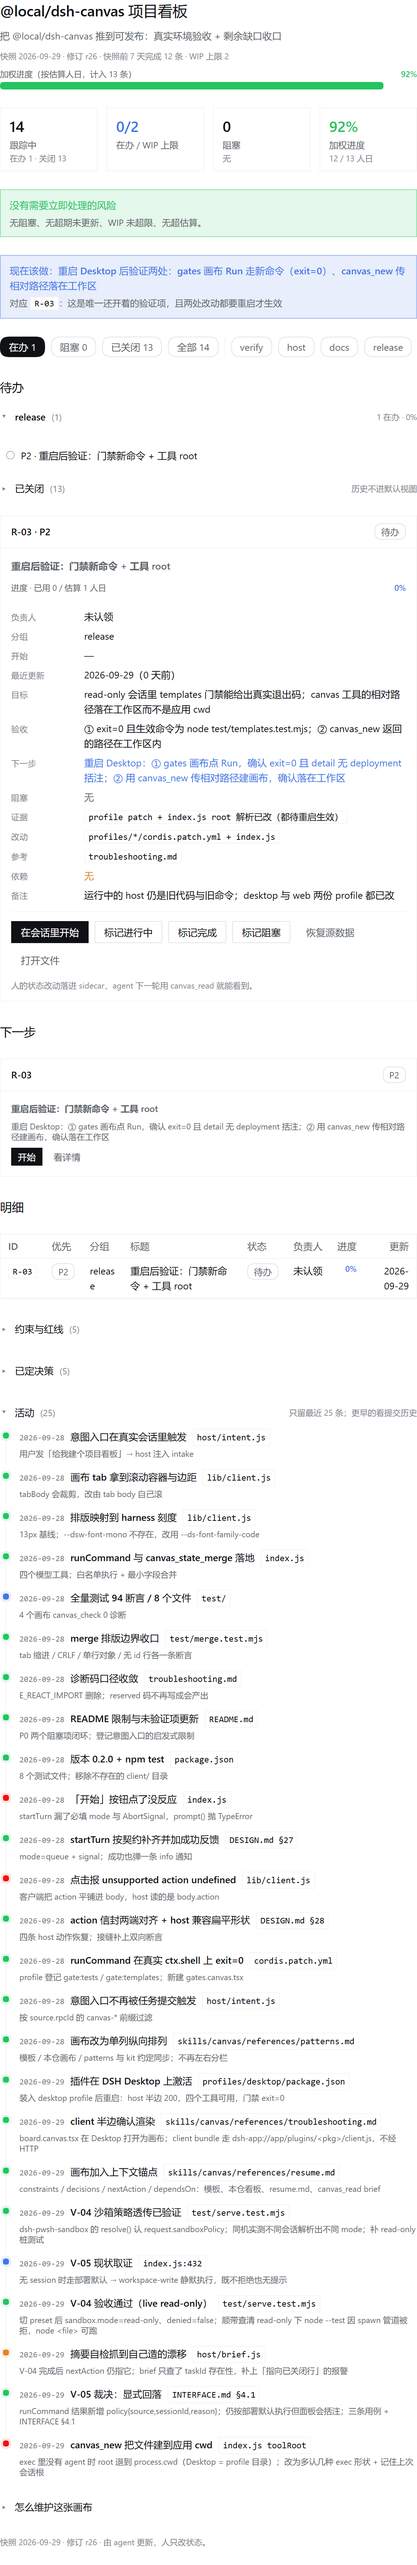
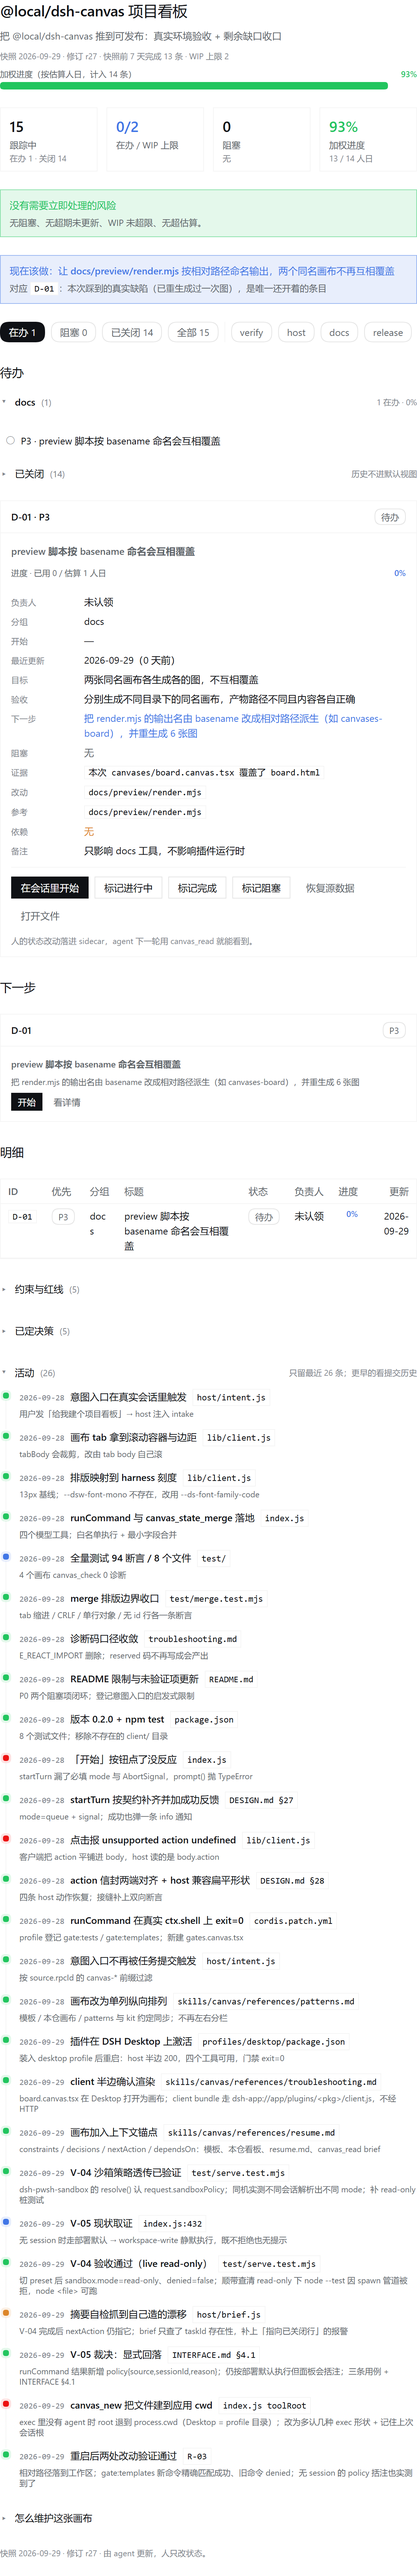
chore(board): R-03 验证通过收口（r27）
重启后实测（不是桩）：
- 相对路径 canvas_check("board.canvas.tsx") 通过（重启前直接 ENOENT）
- canvas_new 传相对路径落在工作区：canvases/root-probe.canvas.tsx
- gate:templates exit=0，policy.source=session
- 无 sessionId 时 policy.source=deployment、reason=the request carried no sessionId，detail 带括注
- 生效命令用白名单的 command 精确匹配判定：node test/templates.test.mjs 匹配成功，
  旧形式 node --test … 返回 denied「not in commandWhitelist」

- R-03 完成；a26 记录
- 新增 D-01（P3，docs）：preview 脚本按 basename 命名会互相覆盖（本次实际踩到），作为
  当前唯一的开放项与 nextAction

diff --git a/board.canvas.tsx b/board.canvas.tsx
@@ -29,7 +29,7 @@ type Task = {
 export const DATA = {
   goal: "把 @local/dsh-canvas 推到可发布：真实环境验收 + 剩余缺口收口",
   asOf: "2026-09-29",
-  revision: "r26",
+  revision: "r27",
   wipLimit: 2,
   staleDays: 7,
   lanes: ["verify", "host", "docs", "release"],
@@ -50,7 +50,7 @@ export const DATA = {
     { id: "D5", at: "2026-09-28", chose: "startTurn 用 mode=queue + AbortSignal", rejected: ["mode=steer", "省略 signal"], why: "契约必填 signal；队列语义不抢占当前轮", ref: "DESIGN.md §27" },
   ],
   // 全局唯一的下一个动作。每任务的 next 是局部视角，两者不互相替代。
-  nextAction: { taskId: "R-03", action: "重启 Desktop 后验证两处：gates 画布 Run 走新命令（exit=0）、canvas_new 传相对路径落在工作区", why: "这是唯一还开着的验证项，且两处改动都要重启才生效" },
+  nextAction: { taskId: "D-01", action: "让 docs/preview/render.mjs 按相对路径命名输出，两个同名画布不再互相覆盖", why: "本次踩到的真实缺陷（已重生成过一次图），是唯一还开着的条目" },
   tasks: [
     {
       id: "V-01", lane: "verify", title: "重启后目视三张画布",
@@ -198,14 +198,25 @@ export const DATA = {
     },
     {
       id: "R-03", lane: "release", title: "重启后验证：门禁新命令 + 工具 root",
-      status: "pending", priority: "P2", owner: "-",
+      status: "completed", priority: "P2", owner: "agent",
+      progress: 100, estimate: 1, actual: 1,
+      startedAt: "2026-09-29", updatedAt: "2026-09-29", completedAt: "2026-09-29", blocker: "",
+      goal: "read-only 会话里 templates 门禁能给出真实退出码；canvas 工具的相对路径落在工作区而不是应用 cwd",
+      next: "",
+      acceptance: "① exit=0 且生效命令为 node test/templates.test.mjs；② canvas_new 返回的路径在工作区内",
+      evidence: "重启后实测：相对路径 canvas_check 通过、canvas_new 落在工作区；gate:templates exit=0 且新命令精确匹配成功、旧命令 denied", write: "profiles/*/cordis.patch.yml + index.js",
+      ref: "troubleshooting.md", note: "用白名单的 command 精确匹配判定生效命令：新命令 ok、旧命令『not in commandWhitelist』",
+    },
+    {
+      id: "D-01", lane: "docs", title: "preview 脚本按 basename 命名会互相覆盖",
+      status: "pending", priority: "P3", owner: "-",
       progress: 0, estimate: 1, actual: 0,
       startedAt: "", updatedAt: "2026-09-29", completedAt: "", blocker: "",
-      goal: "read-only 会话里 templates 门禁能给出真实退出码；canvas 工具的相对路径落在工作区而不是应用 cwd",
-      next: "重启 Desktop：① gates 画布点 Run，确认 exit=0 且 detail 无 deployment 括注；② 用 canvas_new 传相对路径建画布，确认落在工作区",
-      acceptance: "① exit=0 且生效命令为 node test/templates.test.mjs；② canvas_new 返回的路径在工作区内",
-      evidence: "profile patch + index.js root 解析已改（都待重启生效）", write: "profiles/*/cordis.patch.yml + index.js",
-      ref: "troubleshooting.md", note: "运行中的 host 仍是旧代码与旧命令；desktop 与 web 两份 profile 都已改",
+      goal: "两张同名画布各生成各的图，不互相覆盖",
+      next: "把 render.mjs 的输出名由 basename 改成相对路径派生（如 canvases-board），并重生成 6 张图",
+      acceptance: "分别生成不同目录下的同名画布，产物路径不同且内容各自正确",
+      evidence: "本次 canvases/board.canvas.tsx 覆盖了 board.html", write: "docs/preview/render.mjs",
+      ref: "docs/preview/render.mjs", note: "只影响 docs 工具，不影响插件运行时",
     },
   ],
   activity: [
@@ -234,6 +245,7 @@ export const DATA = {
     { id: "a23", at: "2026-09-29", title: "摘要自检抓到自己造的漂移", tone: "warning", detail: "V-04 完成后 nextAction 仍指它；brief 只查了 taskId 存在性，补上「指向已关闭行」的报警", ref: "host/brief.js" },
     { id: "a24", at: "2026-09-29", title: "V-05 裁决：显式回落", tone: "success", detail: "runCommand 结果新增 policy{source,sessionId,reason}；仍按部署默认执行但面板会括注；三条用例 + INTERFACE §4.1", ref: "INTERFACE.md §4.1" },
     { id: "a25", at: "2026-09-29", title: "canvas_new 把文件建到应用 cwd", tone: "danger", detail: "exec 里没有 agent 时 root 退到 process.cwd（Desktop = profile 目录）；改为多认几种 exec 形状 + 记住上次会话根", ref: "index.js toolRoot" },
+    { id: "a26", at: "2026-09-29", title: "重启后两处改动验证通过", tone: "success", detail: "相对路径落到工作区；gate:templates 新命令精确匹配成功、旧命令 denied；无 session 的 policy 括注也实测到了", ref: "R-03" },
   ],
 } as const;
 
